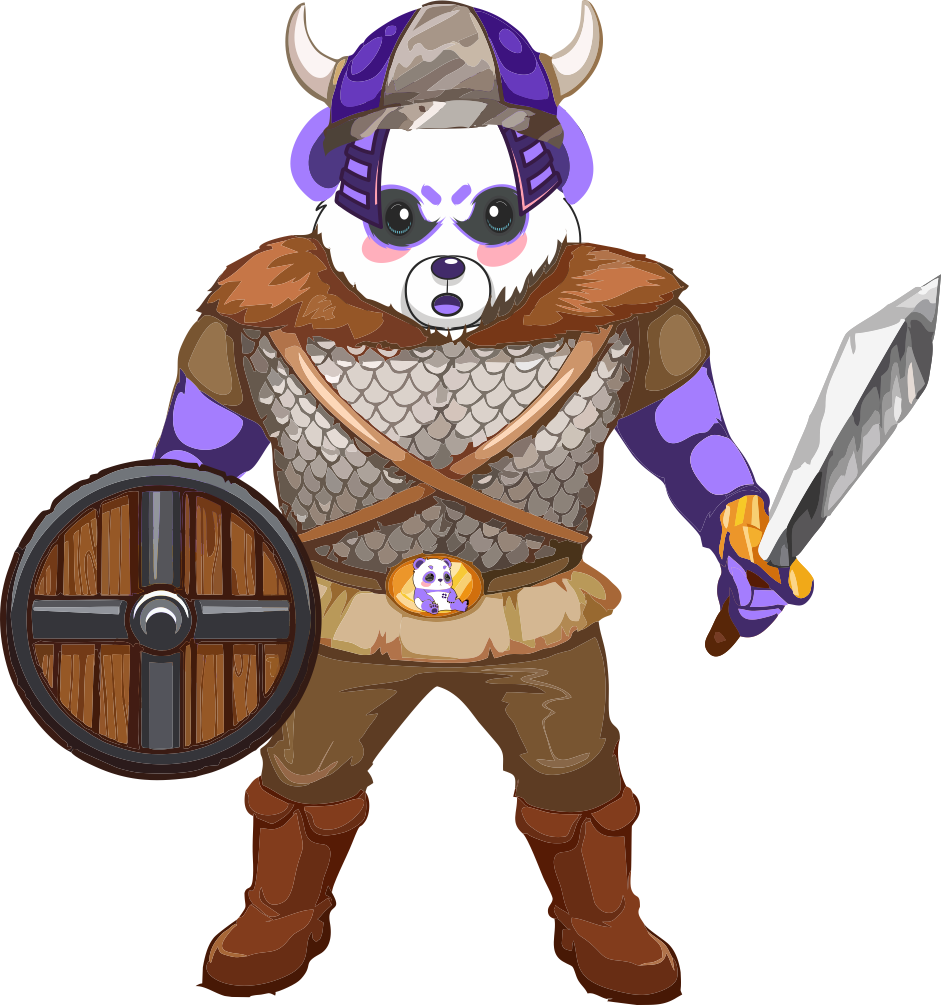
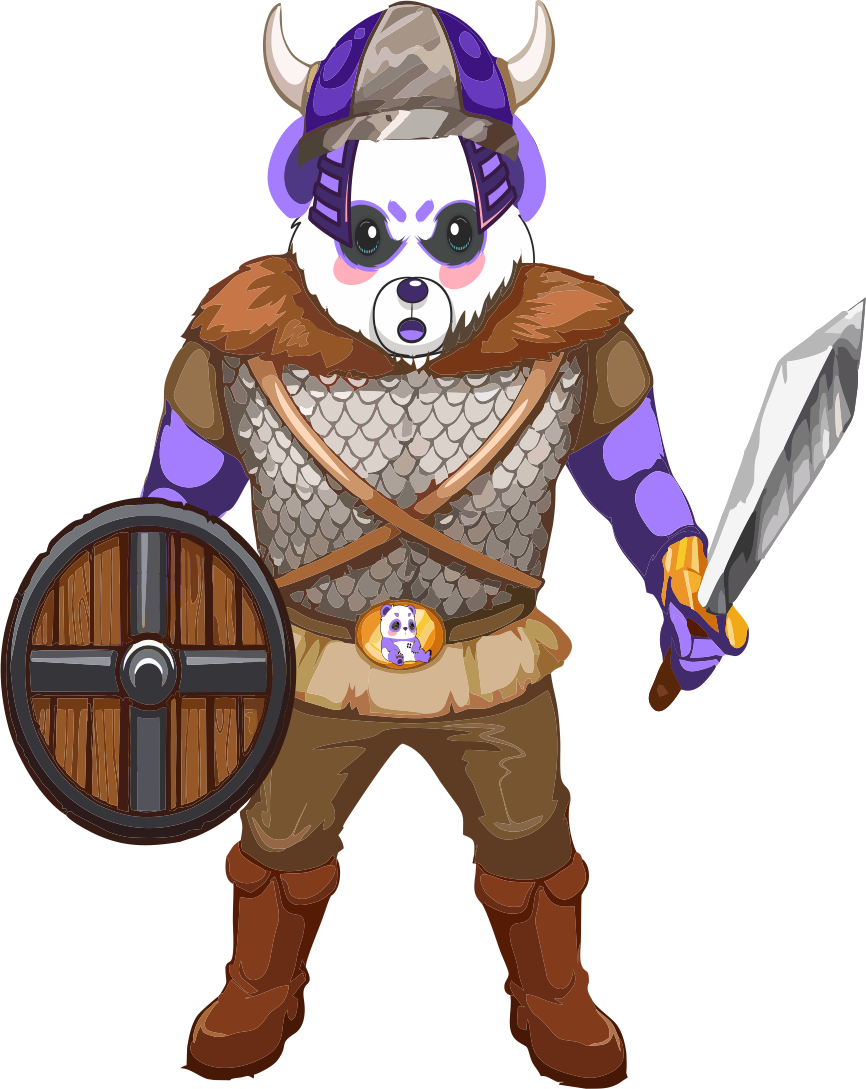
Update character images and replace "Molandak" with "Mopo" in the main page
- Replaced the character name "Molandak" with "Mopo" in the Home component.
- Added new image asset for "Mopo" and updated existing images for "Moyaki", "Salmonad", and "Mosca".

These changes enhance the character representation in the Monanimal Wars game.

diff --git a/packages/nextjs/app/page.tsx b/packages/nextjs/app/page.tsx
@@ -51,7 +51,7 @@ const Home = () => {
         <div className="grid grid-cols-5 gap-8 justify-center p-8">
           {[
             { name: "Moyaki", image: "/images/Moyaki.png" },
-            { name: "Molandak", image: "/images/Molandak1.png" },
+            { name: "Mopo", image: "/images/mopo.png" },
             { name: "Chog", image: "/images/Chog1.png" },
             { name: "Salmonad", image: "/images/Salmonad1.png" },
             { name: "Mouch", image: "/images/mosca.png" },
